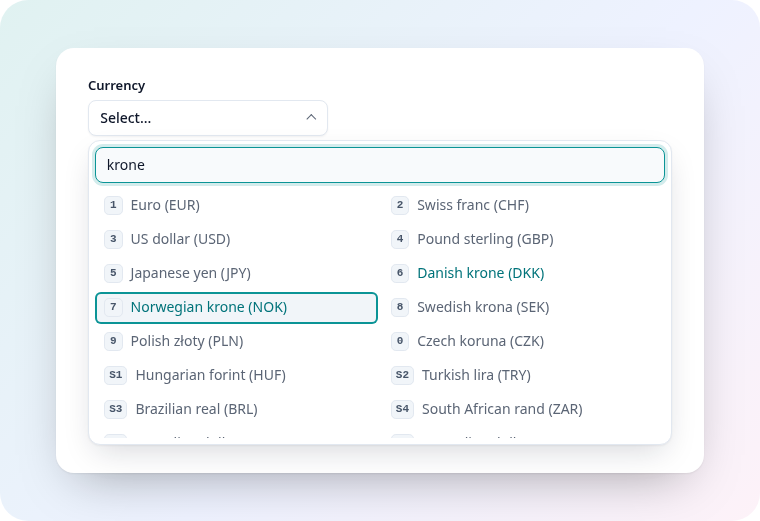
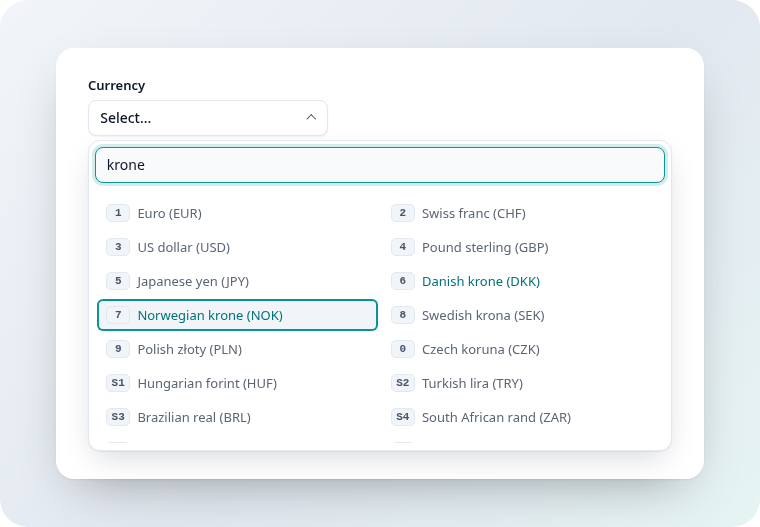
feat: equal grid row heights via a scrolling listbox, showcase spacing, lighter screenshot backdrops
The listbox role moves to the new scroll container; the item list inside
grows freely, so grid-auto-rows: 1fr gives every row the tallest height
without clipping (WCAG 1.4.12 still holds).

diff --git a/src/gridselect.js b/src/gridselect.js
@@ -489,14 +489,20 @@ function createPanel(wrapper, radios, opts, tiers, fallbackLabel, beforeOpen, mu
   search.setAttribute("aria-expanded", "false");
   search.placeholder = typeof opts.searchPlaceholder === "string" ? opts.searchPlaceholder : "Search…";
 
+  // The scroller is the listbox: it scrolls (the list inside grows freely, so CSS can give every
+  // grid row the height of the tallest one without clipping), and as a widget the scrolling
+  // region is reached through the combobox. The list inside only lays out the items.
+  const scroller = create(doc, "div", "scroller");
+  scroller.id = uniqueId(doc);
+  scroller.setAttribute("role", "listbox");
+  if (multiple) scroller.setAttribute("aria-multiselectable", "true");
   const list = create(doc, "div", "items");
-  list.id = uniqueId(doc);
-  list.setAttribute("role", "listbox");
-  if (multiple) list.setAttribute("aria-multiselectable", "true");
+  list.setAttribute("role", "presentation");
+  scroller.append(list);
   const layout = opts.layout ?? wrapper.getAttribute("data-layout");
   const isList = layout === "list";
   if (isList) list.classList.add("gridselect__items--list");
-  search.setAttribute("aria-controls", list.id);
+  search.setAttribute("aria-controls", scroller.id);
 
   const items = radios.map((radio) => {
     const item = create(doc, "div", "item");
@@ -525,7 +531,7 @@ function createPanel(wrapper, radios, opts, tiers, fallbackLabel, beforeOpen, mu
     "position:absolute;width:1px;height:1px;margin:-1px;padding:0;border:0;overflow:hidden;clip:rect(0 0 0 0);white-space:nowrap";
   /** @type {(n: number) => string} */
   const resultsText = typeof opts.resultsText === "function" ? opts.resultsText : (n) => (n === 1 ? "1 result" : `${n} results`);
-  panel.append(search, list, empty, status);
+  panel.append(search, scroller, empty, status);
   const keys = radios.map((r) => fold(labelText(r)));
   const highlight = (opts.search ?? wrapper.getAttribute("data-search")) === "highlight";
 
@@ -543,7 +549,7 @@ function createPanel(wrapper, radios, opts, tiers, fallbackLabel, beforeOpen, mu
   }
   if (labelledBy) field.setAttribute("aria-labelledby", `${labelledBy} ${field.id}`);
   // Search input and listbox carry the group name too, not just the placeholder.
-  for (const el of [search, list]) {
+  for (const el of [search, scroller]) {
     if (labelledBy) el.setAttribute("aria-labelledby", labelledBy);
     else if (ariaLabel) el.setAttribute("aria-label", ariaLabel);
   }

diff --git a/e2e/styles.e2e.js b/e2e/styles.e2e.js
@@ -114,9 +114,9 @@ test("the panel sits under the field, is sized and scrolls", async ({ page }) =>
   expect(p.y).toBeGreaterThanOrEqual(f.y + f.height);
   expect(p.y - (f.y + f.height)).toBeLessThan(12);
   expect(p.width).toBeLessThanOrEqual(640 + 1);
-  const list = page.locator("#filter [data-gridselect-items]");
-  await expect(list).toHaveCSS("overflow-y", "auto");
-  expect((await list.boundingBox()).height).toBeLessThanOrEqual(18 * 16 + 1);
+  const scroller = page.locator("#filter [data-gridselect-scroller]");
+  await expect(scroller).toHaveCSS("overflow-y", "auto");
+  expect((await scroller.boundingBox()).height).toBeLessThanOrEqual(18 * 16 + 1);
 });
 
 test("grid layout has several columns, list layout exactly one", async ({ page }) => {
@@ -196,3 +196,24 @@ test("right-to-left: the panel opens under the field (QA F6)", async ({ page }) 
   const p = await page.locator("#filter [data-gridselect-panel]").boundingBox();
   expect(Math.abs(p.x + p.width - (f.x + f.width))).toBeLessThan(2);
 });
+
+for (const style of ["default", "showcase"]) {
+  test(`grid rows share one height and labels line up (${style})`, async ({ page }) => {
+    await page.setViewportSize({ width: 1000, height: 900 });
+    if (style === "showcase") await page.locator("#style").click();
+    await field(page, "filter").click();
+    const rows = await items(page, "filter").evaluateAll((els) => els.slice(0, 24).map((el) => {
+      const r = el.getBoundingClientRect();
+      const label = el.querySelector("[data-gridselect-label]").getBoundingClientRect();
+      return { h: Math.round(r.height), labelOffset: Math.round(label.left - r.left) };
+    }));
+    expect(new Set(rows.map((r) => r.h)).size, "one item height").toBe(1);
+    expect(new Set(rows.map((r) => r.labelOffset)).size, "labels start at the same offset").toBe(1);
+    const gap = await page.evaluate(() => {
+      const s = document.querySelector("#filter [data-gridselect-search]").getBoundingClientRect();
+      const l = document.querySelector("#filter [data-gridselect-items]").getBoundingClientRect();
+      return l.top - s.bottom;
+    });
+    expect(gap, "space between search and list").toBeGreaterThanOrEqual(style === "showcase" ? 10 : 8);
+  });
+}

diff --git a/demo/index.html b/demo/index.html
@@ -83,6 +83,26 @@ gridselect(document.querySelector("[data-gridselect]"));</code></pre>
   </section>
 
   <section>
+    <h2>Pick several</h2>
+    <p class="note">Checkbox groups and <code>&lt;select multiple&gt;</code> get the same panel. Items toggle, the panel stays open, so you can filter and pick several in a row.</p>
+    <div class="demo">
+      <fieldset data-gridselect id="watch"><legend>Watchlist</legend></fieldset>
+    </div>
+    <div class="demo" style="margin-top: 1.25rem">
+      <div data-gridselect id="langs">
+        <label for="languages">Languages</label>
+        <select id="languages" name="languages" multiple>
+          <option value="">Choose languages…</option>
+          <option value="de">German</option><option value="en" selected>English</option><option value="fr">French</option>
+          <option value="it">Italian</option><option value="es">Spanish</option><option value="pt">Portuguese</option>
+          <option value="nl">Dutch</option><option value="da">Danish</option><option value="sv">Swedish</option>
+          <option value="fi">Finnish</option><option value="pl">Polish</option><option value="cs">Czech</option>
+        </select>
+      </div>
+    </div>
+  </section>
+
+  <section>
     <h2>Long labels</h2>
     <p class="note"><code>data-layout="list"</code> stacks the items in one column.</p>
     <div class="demo">
@@ -151,6 +171,7 @@ gridselect(document.querySelector("[data-gridselect]"));</code></pre>
   fill("filter", currencies, { checked: 1 });
   fill("highlight", currencies);
   fill("list", modules);
+  fill("watch", currencies.slice(0, 24), { type: "checkbox" });
   document.querySelectorAll("[data-gridselect]").forEach((el) => gridselect(el));
 
   const themes = ["auto", "light", "dark"];

diff --git a/test/panel-edge-cases.test.js b/test/panel-edge-cases.test.js
@@ -104,7 +104,7 @@ describe("QA F2 fixes", () => {
       w,
       field: w.querySelector("[data-gridselect-field]"),
       search: w.querySelector("[data-gridselect-search]"),
-      list: w.querySelector("[data-gridselect-items]"),
+      list: w.querySelector("[data-gridselect-scroller]"),
       panel: w.querySelector("[data-gridselect-panel]"),
     };
   };
@@ -172,5 +172,20 @@ describe("search input events (found during tdd F8)", () => {
     s.dispatchEvent(new Event("change", { bubbles: true }));
     expect(log).toEqual([]);
     expect([...w.querySelectorAll("[data-gridselect-item]")].filter((i) => !i.hidden)).toHaveLength(2);
+  });
+});
+
+describe("scroll container (equal row heights need a list that can grow)", () => {
+  it("wraps the item list in a scroller inside the panel and removes it on destroy", () => {
+    document.body.innerHTML = `<div id="w">${rows(11)}</div>`;
+    const w = document.getElementById("w");
+    const before = w.outerHTML;
+    const gs = gridselect(w);
+    const scroller = w.querySelector("[data-gridselect-scroller]");
+    expect(scroller.classList.contains("gridselect__scroller")).toBe(true);
+    expect(scroller.parentElement).toBe(w.querySelector("[data-gridselect-panel]"));
+    expect(scroller.firstElementChild).toBe(w.querySelector("[data-gridselect-items]"));
+    gs.destroy();
+    expect(w.outerHTML).toBe(before);
   });
 });

diff --git a/e2e/demo.e2e.js b/e2e/demo.e2e.js
@@ -7,7 +7,7 @@ test.beforeEach(async ({ page }) => {
 });
 
 test("shows every variant with the real stylesheet and no test tools", async ({ page }) => {
-  for (const id of ["short", "checks", "filter", "highlight", "list", "select"]) await expect(page.locator(`#${id}`)).toBeVisible();
+  for (const id of ["short", "checks", "filter", "highlight", "watch", "langs", "list", "select"]) await expect(page.locator(`#${id}`)).toBeVisible();
   await expect(page.locator("#filter [data-gridselect-field]")).toBeVisible();
   await expect(page.locator("#select [data-gridselect-field]")).toHaveText("Choose a country…");
   await expect(page.locator("#log")).toHaveCount(0);
@@ -29,6 +29,9 @@ for (const scheme of ["light", "dark"]) {
     await page.emulateMedia({ colorScheme: scheme });
     await page.locator("#filter [data-gridselect-field]").click();
     await page.locator("#filter [data-gridselect-search]").fill("dollar");
+    await page.keyboard.press("Escape");
+    await page.locator("#watch [data-gridselect-field]").click();
+    await page.keyboard.press("Enter");
     const { violations } = await new AxeBuilder({ page }).withTags(["wcag2a", "wcag2aa", "wcag21a", "wcag21aa", "wcag22aa"]).analyze();
     expect(violations.map((v) => `${v.id}: ${v.nodes.map((n) => n.target.join(" ")).join(", ")}`)).toEqual([]);
   });

diff --git a/themes/showcase.css b/themes/showcase.css
@@ -41,7 +41,7 @@
     --gs-gap: 0.25rem;
     --gs-item-min-height: 2rem;
     --gs-item-padding: 0.3rem 0.55rem;
-    --gs-item-min-width: 12rem;
+    --gs-item-min-width: 13rem;
     --gs-focus-width: 2px;
     --gs-panel-width: min(42rem, 100vw - 2rem);
     --gs-list-max-height: 17rem;
@@ -133,7 +133,8 @@
 
   /* Panel items: flat rows, highlighted on hover and under the cursor */
   .gridselect__item {
-    gap: 0.5rem;
+    gap: 0.45rem;
+    font-size: 0.8125rem;
     border: 0;
     border-radius: 0.375rem;
     background: transparent;
@@ -211,14 +212,14 @@
 
   .gridselect__search {
     min-height: 2.25rem;
-    margin: 0 0 0.4rem;
+    margin: 0 0 0.75rem;
     padding: 0.35rem 0.65rem;
     border-radius: 0.5rem;
     background: var(--gs-search-bg);
   }
 
   .gridselect__items {
-    padding: 0;
+    padding: 2px;
     gap: 0.125rem 0.25rem;
   }
 
@@ -233,7 +234,7 @@
 
   /* Digit badge: a small keycap */
   .gridselect__key {
-    min-width: 1.15rem;
+    min-width: 1.5rem;
     min-height: 1.15rem;
     margin-inline-start: 0;
     padding: 0 0.25rem;

diff --git a/test/multiple.test.js b/test/multiple.test.js
@@ -45,7 +45,7 @@ describe("checkbox groups above the threshold", () => {
   it("get the panel with a multiselectable listbox", () => {
     const { w } = boxes(11);
     expect(field(w)).not.toBeNull();
-    expect(w.querySelector("[data-gridselect-items]").getAttribute("aria-multiselectable")).toBe("true");
+    expect(w.querySelector("[data-gridselect-scroller]").getAttribute("aria-multiselectable")).toBe("true");
     expect([...w.querySelectorAll("input[type=checkbox]")].every((c) => c.hidden && c.labels[0].hidden)).toBe(true);
   });
 
@@ -126,7 +126,7 @@ describe("<select multiple>", () => {
   it("shows the panel with multiple choice above the threshold", () => {
     const { w } = multiSelect(12);
     expect(field(w)).not.toBeNull();
-    expect(w.querySelector("[data-gridselect-items]").getAttribute("aria-multiselectable")).toBe("true");
+    expect(w.querySelector("[data-gridselect-scroller]").getAttribute("aria-multiselectable")).toBe("true");
   });
 
   it("updates the options, fires select events only, submits all values", () => {

diff --git a/src/gridselect.css b/src/gridselect.css
@@ -213,19 +213,25 @@
     opacity: 1;
   }
 
+  .gridselect__scroller {
+    max-height: var(--gs-list-max-height);
+    overflow-y: auto;
+  }
+
   .gridselect__items {
     display: grid;
     grid-template-columns: repeat(auto-fill, minmax(min(var(--gs-item-min-width), 100%), 1fr));
+    /* every row as tall as the tallest one, so a wrapped label never makes the grid uneven */
+    grid-auto-rows: 1fr;
     gap: var(--gs-gap);
-    max-height: var(--gs-list-max-height);
     margin: 0;
     /* room for the cursor outline */
     padding: calc(var(--gs-focus-width) + 2px);
-    overflow-y: auto;
   }
 
   .gridselect__items--list {
     grid-template-columns: 1fr;
+    grid-auto-rows: auto;
   }
 
   .gridselect__item {
@@ -293,7 +299,8 @@
     align-items: center;
     justify-content: center;
     flex-shrink: 0;
-    min-width: 1.5rem;
+    /* wide enough for "S1", so labels after one- and two-character badges line up */
+    min-width: 1.75rem;
     min-height: 1.5rem;
     margin-inline-start: -0.45rem;
     padding: 0 0.35rem;

diff --git a/scripts/screenshots.js b/scripts/screenshots.js
@@ -4,9 +4,10 @@
 import { test } from "@playwright/test";
 import { writeFileSync } from "node:fs";
 
+// Light, neutral backdrops in both modes, so the component (light or dark) stands out.
 const STAGE = {
-  light: "linear-gradient(135deg, #e0f2f1 0%, #eef2ff 55%, #fdf2f8 100%)",
-  dark: "linear-gradient(135deg, #0b2a2c 0%, #111827 55%, #1e1b2e 100%)",
+  light: "linear-gradient(135deg, #f1f5f9 0%, #e2e8f0 55%, #e6f4f4 100%)",
+  dark: "linear-gradient(135deg, #e2e8f0 0%, #cbd5e1 55%, #d5e6e7 100%)",
 };
 
 /**
@@ -57,7 +58,7 @@ const shots = {
       await page.locator("#highlight [data-gridselect-field]").click();
       await page.locator("#highlight [data-gridselect-search]").fill("krone");
       await page.keyboard.press("ArrowRight");
-      await page.locator("#highlight [data-gridselect-items]").evaluate((el) => (el.style.maxHeight = "15.5rem"));
+      await page.locator("#highlight [data-gridselect-scroller]").evaluate((el) => (el.style.maxHeight = "15.5rem"));
     }),
 };
 

diff --git a/test/panel.test.js b/test/panel.test.js
@@ -139,9 +139,13 @@ describe("panel structure", () => {
     expect(s.classList.contains("gridselect__search")).toBe(true);
     expect(s.getAttribute("role")).toBe("combobox");
     expect(s.getAttribute("aria-autocomplete")).toBe("list");
-    expect(s.getAttribute("aria-controls")).toBe(list(w).id);
+    const listbox = w.querySelector("[data-gridselect-scroller]");
+    expect(s.getAttribute("aria-controls")).toBe(listbox.id);
     expect(s.placeholder).toBe("Suchen…");
-    expect(list(w).getAttribute("role")).toBe("listbox");
+    expect(listbox.getAttribute("role")).toBe("listbox");
+    expect(listbox.classList.contains("gridselect__scroller")).toBe(true);
+    expect(list(w).parentElement).toBe(listbox);
+    expect(list(w).getAttribute("role")).toBe("presentation");
     expect(list(w).classList.contains("gridselect__items")).toBe(true);
   });
 

diff --git a/e2e/a11y.e2e.js b/e2e/a11y.e2e.js
@@ -50,6 +50,17 @@ for (const scheme of ["light", "dark"]) {
       await check(page, "select");
     });
 
+    test("multiple choice panel with selections", async ({ page }) => {
+      await field(page, "checks-long").click();
+      await page.keyboard.press("Enter");
+      await page.keyboard.press("ArrowRight");
+      await page.keyboard.press("Enter");
+      await check(page, "multiple");
+      await page.keyboard.press("Escape");
+      await field(page, "select-multi").click();
+      await check(page, "select multiple");
+    });
+
     test("invalid required field", async ({ page }) => {
       await page.getByRole("button", { name: "Submit", exact: true }).click();
       await check(page, "invalid");
